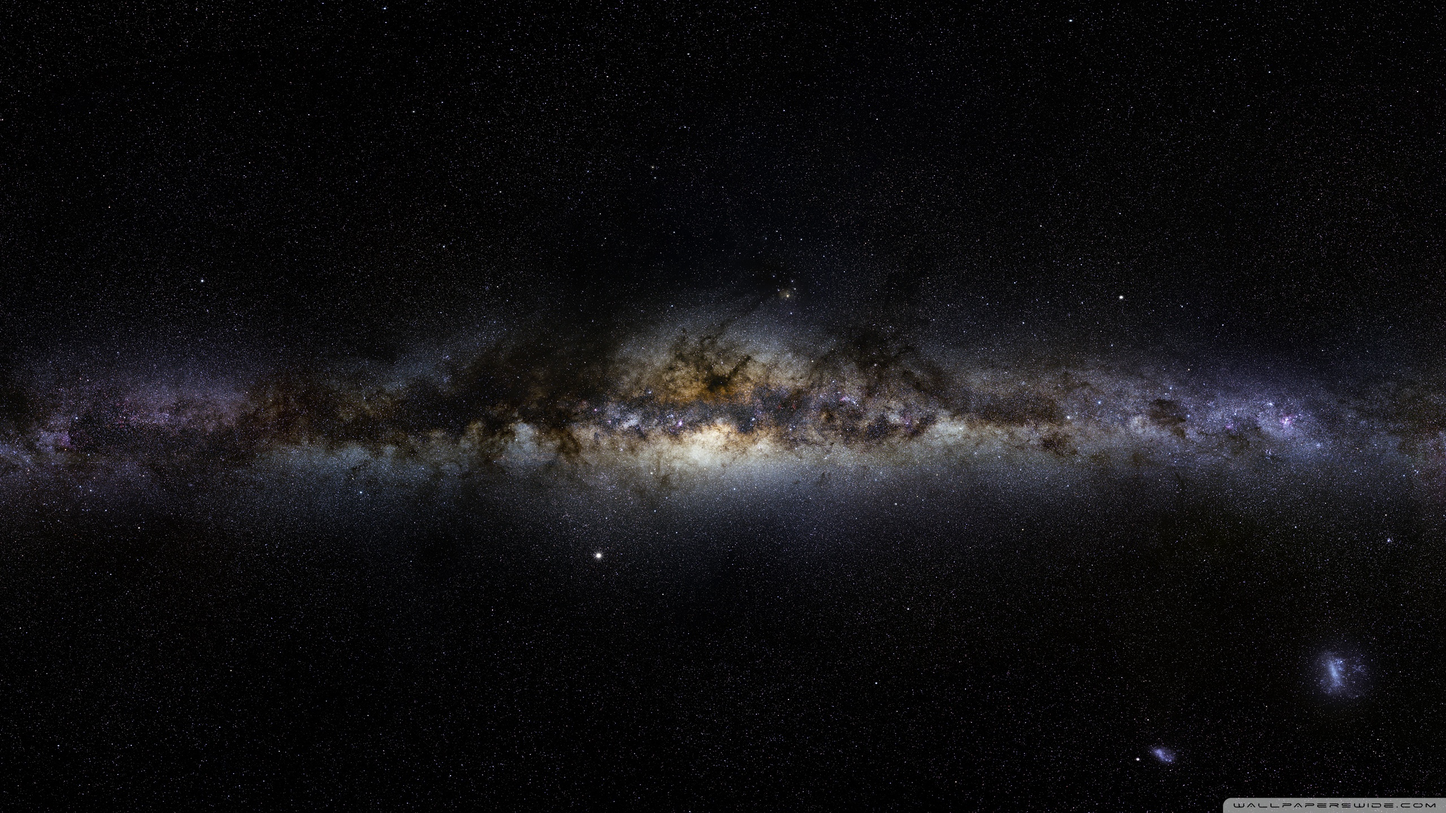
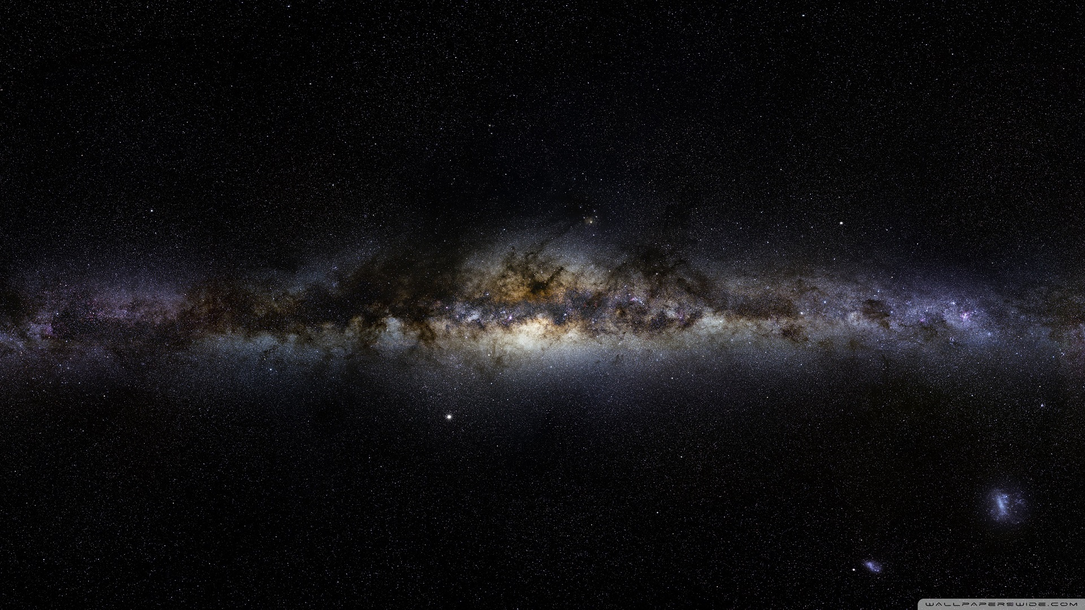
background is up and running

diff --git a/Invasion/Background.cs b/Invasion/Background.cs
@@ -9,26 +9,31 @@ namespace Invasion
 {
     class Background : Entity
     {
-        private static Rectangle imageBox = new Rectangle();
+        private static Rectangle imageBox = new Rectangle(500,500,GameRoot.Viewport.Width,GameRoot.Viewport.Height);
+       
         public Background()
         {
-            image = Art.Planet;
+            image = Art.Background;
             Position = GameRoot.ScreenSize / 2;
             Orientation = 360f;
         }
 
-        public void Update()
-        {
-                   
-                if(Orientation <= 0)
-                    Orientation -= .05f;
-                else
-                    Orientation = 360;
-               
-        }
-        public void Draw(SpriteBatch spriteBatch)
+        public override void Update()
         {
             
+                if(Orientation <= 0)
+                    Orientation = 360f;
+                else
+                    Orientation -= .00005f;
+               
+        }
+        public override void Draw(SpriteBatch spriteBatch)
+        {
+            
+            if (image != null)
+                spriteBatch.Draw(image, Position, null, Color.White, Orientation, Size / 2f,ObjectSize*2.5f,0,0);
+            else
+                Console.WriteLine("image was null");
         }
     }
 

diff --git a/Invasion/GameRoot.cs b/Invasion/GameRoot.cs
@@ -57,6 +57,8 @@ namespace Invasion
 
             base.Initialize();
             //EntityManager.Add(Planet.Instance);
+            Background Background = new Background();
+            EntityManager.Add(Background);
             LevelSpawner Level = new LevelSpawner(100);
             Level.Spawn();
             Console.WriteLine("in main starting thread");
@@ -114,6 +116,7 @@ namespace Invasion
             GraphicsDevice.Clear(Color.Black);
 
             // TODO: Add your drawing code here
+
             spriteBatch.Begin(SpriteSortMode.Texture, BlendState.Additive);
             EntityManager.Draw(spriteBatch);
             TestInputDraw.Draw(spriteBatch);

diff --git a/Invasion/LevelSpawner.cs b/Invasion/LevelSpawner.cs
@@ -16,8 +16,8 @@ namespace Invasion
         private static float[] sizes;
         private static int PositionsCreated = 0;
         private static int minDistance = 0;
-        private static float maxSize = .05f; //determines the max size of planets
-        private static float minSize = .005f; //determines the min size of plaents
+        private static float maxSize = 1.5f; //determines the max size of planets
+        private static float minSize = .4f; //determines the min size of plaents
         
 
         public LevelSpawner(int numplanets)
